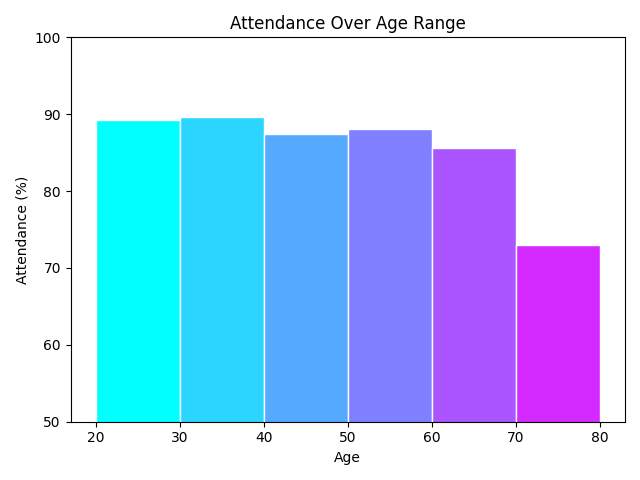
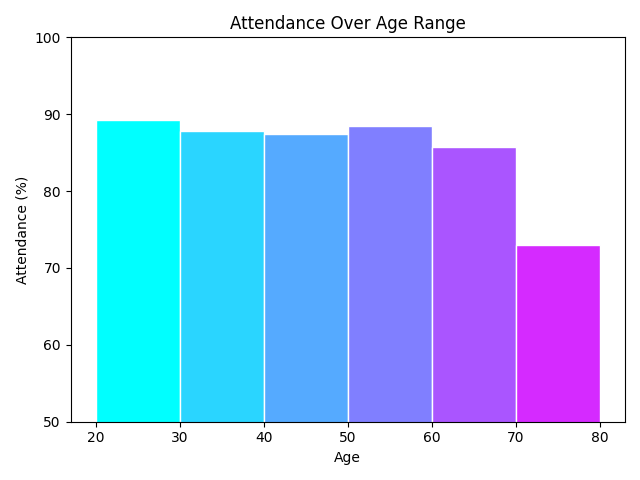
plotting bug fix

Changed region(s): [[0.2812, 0.2188, 0.4375, 0.2812], [0.5312, 0.25, 0.6875, 0.2812], [0.6875, 0.2812, 0.8125, 0.3125]]

diff --git a/plot.py b/plot.py
@@ -115,7 +115,7 @@ def main():
     color_age = cmap(np.linspace(0, 1, years.shape[0]))
     fig, ax = plt.subplots()
     for iy, ty in enumerate(years):
-        msk = (mps['age'] > ty) * (mps['age'] <= (ty + dy))
+        msk = (mps['age'] >= ty) * (mps['age'] < (ty + dy))
         attendances[iy] = mps['attendance'][msk].mean()
     ax.bar(years+dy/2, attendances, width=dy, edgecolor='white', color=color_age)
     ax.set_ylabel('Attendance (%)')
@@ -154,12 +154,13 @@ def main():
     # party age composition
     starty, endy, dy = 20, 90, 14
     years = np.array(list(range(starty, endy, dy)))
+    cmap = matplotlib.colormaps['cool']
     color_age = cmap(np.linspace(0, 1, years.shape[0]))
     party_age = []
     for party_ in parties:
         party_age_ = []
         for iy, ty in enumerate(years):
-            msk = (mps['party'] == party_) * (mps['age'] > ty) * (mps['age'] <= (ty + dy))
+            msk = (mps['party'] == party_) * (mps['age'] >= ty) * (mps['age'] < (ty + dy))
             party_age_.append(msk.sum())
         party_age.append(party_age_)
     party_age = np.array(party_age)
@@ -171,7 +172,7 @@ def main():
                                                 startangle=-90, counterclock=False,
                                                 wedgeprops=dict(width=0.9),
                                                 textprops=dict(size='larger'), pctdistance=0.75,
-                                                autopct=lambda pct: str(int(pct / 100. * party_age[i].sum().item())) if pct > 5 else '')
+                                                autopct=lambda pct: str(int(np.round(pct / 100. * party_age[i].sum().item()))) if pct > 5 else '')
         ax[ij[0], ij[1]].set_title(parties[i], pad=10)
         # narrow pie indicator
         kw = dict(arrowprops=dict(arrowstyle="-"), zorder=0, va="center")
@@ -225,7 +226,7 @@ def main():
     for party_ in parties:
         party_age_ = []
         for iy, ty in enumerate(years):
-            msk = (mps['party'] == party_) * (mps['age'] > ty) * (mps['age'] <= (ty + dy))
+            msk = (mps['party'] == party_) * (mps['age'] >= ty) * (mps['age'] < (ty + dy))
             party_age_.append(msk.sum())
         party_age.append(party_age_)
     party_age = np.array(party_age)
@@ -247,6 +248,7 @@ def main():
     # parliament age distribution
     starty, endy, dy = 20, 90, 10
     years = np.array(list(range(starty, endy, dy)))
+    print(mps['age'].mean(), np.median(mps['age']))
     party_age = []
     for party_ in parties:
         party_age_ = []
